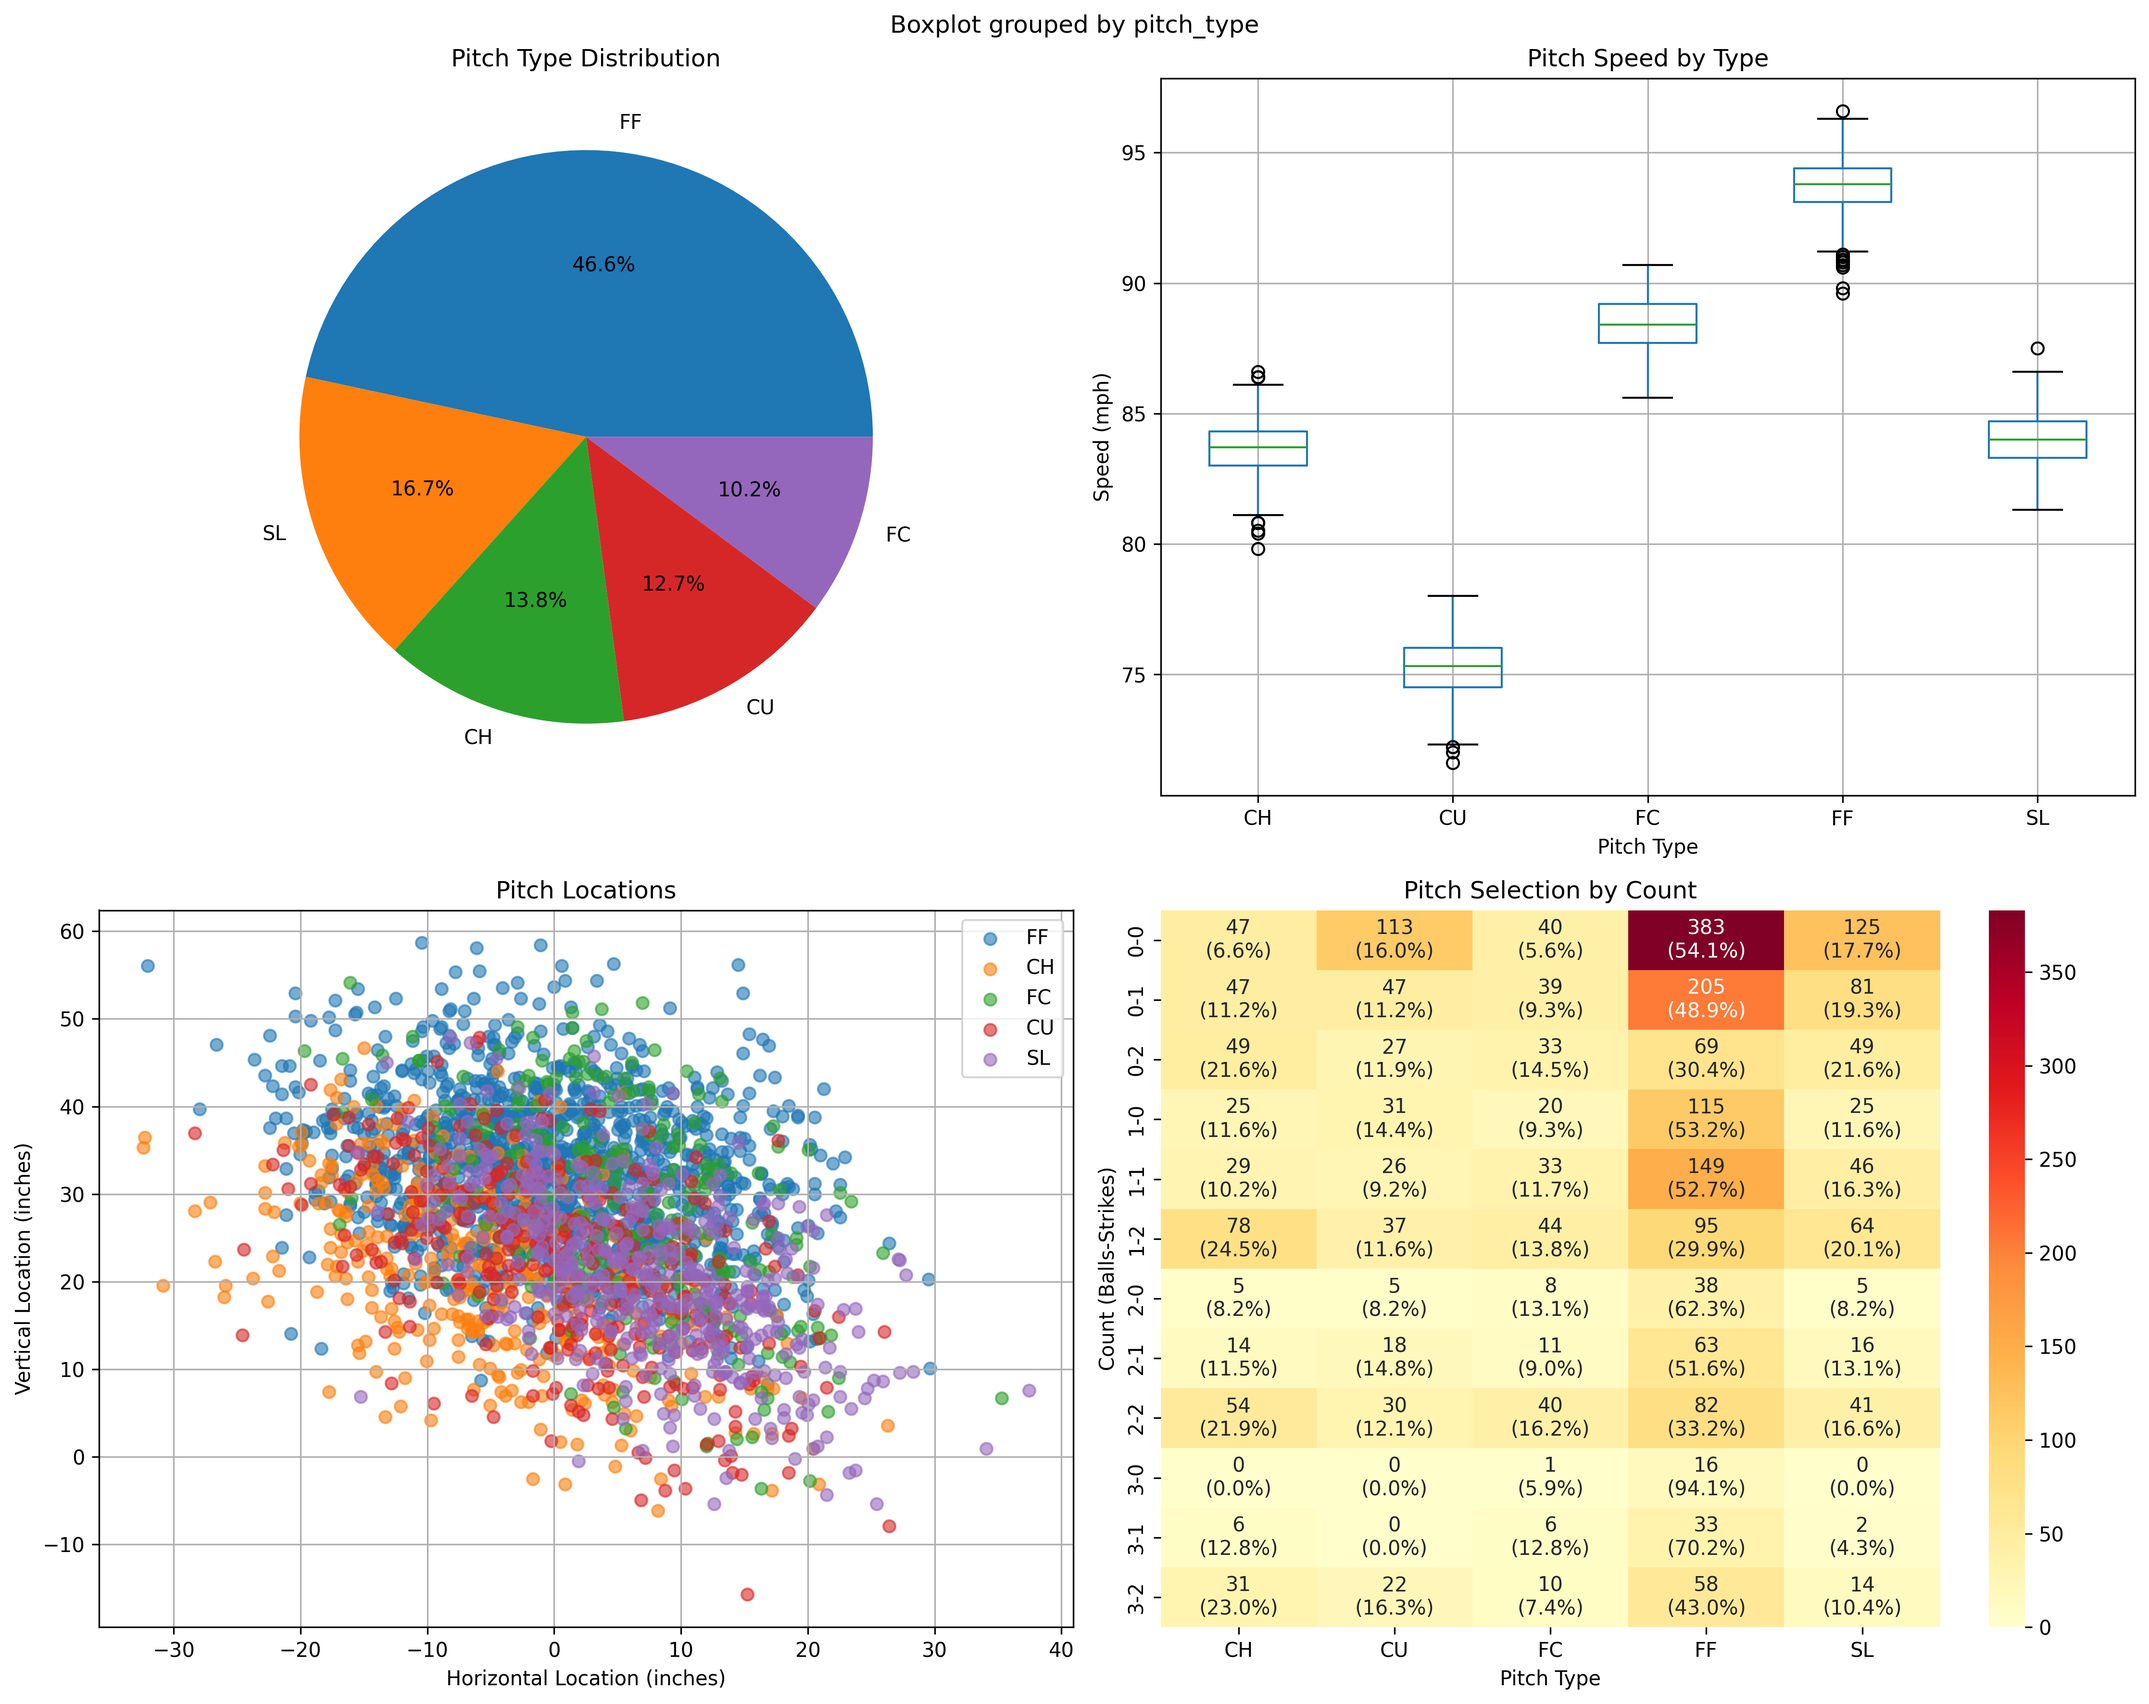
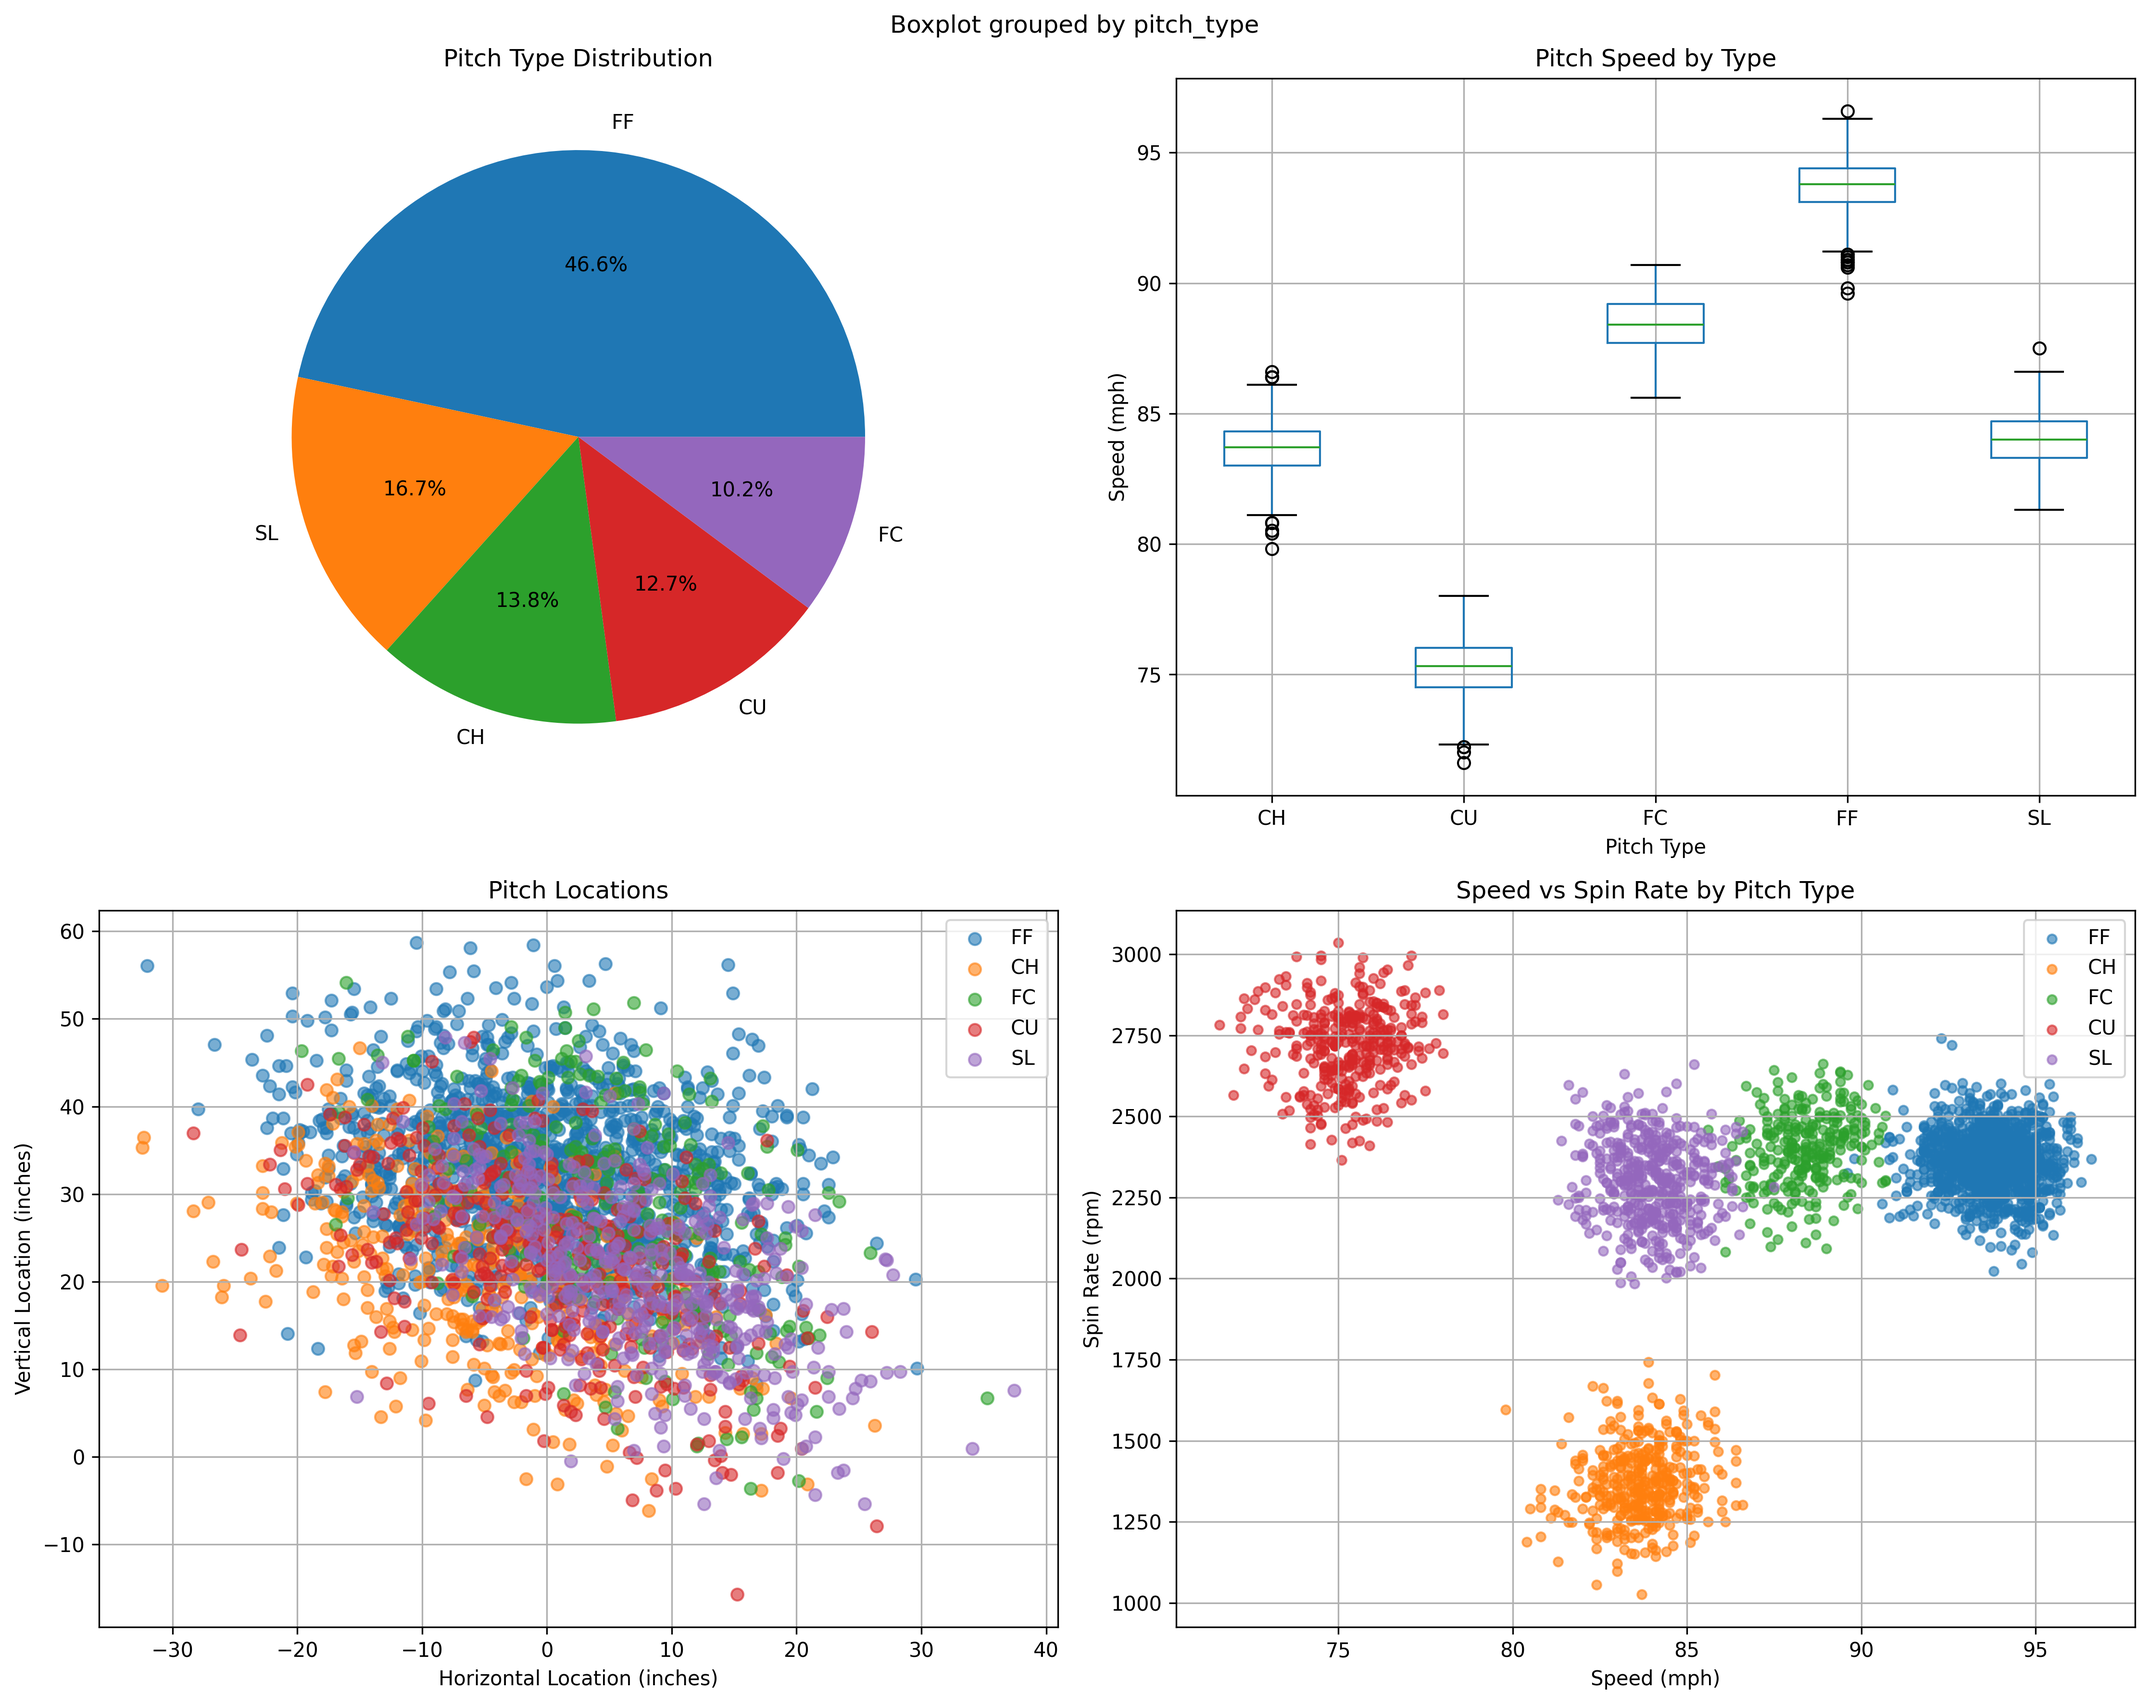
made pitch prediction more accurate

diff --git a/pitch_selection.py b/pitch_selection.py
@@ -57,7 +57,7 @@ class PitchSelectionAnalyzer:
         return count_pitch_percentages
     
     def analyze_pitch_characteristics(self, pitcher_name):
-        """Analyze speed and spin rate distributions for each pitch type"""
+        """Analyze speed and spin rate distributions for each pitch type with correlations"""
         if pitcher_name not in self.pitcher_data:
             return None
             
@@ -72,11 +72,27 @@ class PitchSelectionAnalyzer:
             pitch_data = data[data['pitch_type'] == pitch_type]
             
             if len(pitch_data) > 10:  # Only analyze if we have enough data
+                # Calculate basic statistics
+                speed_mean = pitch_data['release_speed'].mean()
+                speed_std = pitch_data['release_speed'].std()
+                spin_mean = pitch_data['release_spin_rate'].mean()
+                spin_std = pitch_data['release_spin_rate'].std()
+                
+                # Calculate correlation between speed and spin
+                correlation = pitch_data['release_speed'].corr(pitch_data['release_spin_rate'])
+                
+                # Calculate conditional parameters for spin given speed
+                # spin_conditional_mean = spin_mean + correlation * (spin_std/speed_std) * (speed - speed_mean)
+                # spin_conditional_std = spin_std * sqrt(1 - correlation^2)
+                spin_conditional_std = spin_std * np.sqrt(1 - correlation**2) if not np.isnan(correlation) else spin_std
+                
                 characteristics = {
-                    'speed_mean': pitch_data['release_speed'].mean(),
-                    'speed_std': pitch_data['release_speed'].std(),
-                    'spin_mean': pitch_data['release_spin_rate'].mean(),
-                    'spin_std': pitch_data['release_spin_rate'].std(),
+                    'speed_mean': speed_mean,
+                    'speed_std': speed_std,
+                    'spin_mean': spin_mean,
+                    'spin_std': spin_std,
+                    'speed_spin_correlation': correlation,
+                    'spin_conditional_std': spin_conditional_std,
                     'pfx_x_mean': pitch_data['pfx_x'].mean(),
                     'pfx_x_std': pitch_data['pfx_x'].std(),
                     'pfx_z_mean': pitch_data['pfx_z'].mean(),
@@ -87,8 +103,9 @@ class PitchSelectionAnalyzer:
         
         print(f"\n=== Pitch Characteristics for {pitcher_name} ===")
         for pitch_type, stats in pitch_characteristics.items():
+            correlation_str = f"r={stats['speed_spin_correlation']:.3f}" if not np.isnan(stats['speed_spin_correlation']) else "r=N/A"
             print(f"{pitch_type}: Speed {stats['speed_mean']:.1f}±{stats['speed_std']:.1f} mph, "
-                  f"Spin {stats['spin_mean']:.0f}±{stats['spin_std']:.0f} rpm (n={stats['count']}), \nX-Movement: {stats['pfx_x_mean']:.2f}±{stats['pfx_x_std']:.2f} in, "
+                  f"Spin {stats['spin_mean']:.0f}±{stats['spin_std']:.0f} rpm ({correlation_str}) (n={stats['count']}), \nX-Movement: {stats['pfx_x_mean']:.2f}±{stats['pfx_x_std']:.2f} in, "
                   f"Z-Movement: {stats['pfx_z_mean']:.2f}±{stats['pfx_z_std']:.2f} in")
         
         return pitch_characteristics
@@ -130,6 +147,64 @@ class PitchSelectionAnalyzer:
         
         return location_patterns
     
+    def validate_speed_spin_correlation(self, pitcher_name, model, num_samples=1000):
+        """Validate the conditional probability approach by comparing generated vs actual distributions"""
+        if pitcher_name not in self.pitcher_data or model is None:
+            return None
+            
+        data = self.pitcher_data[pitcher_name]
+        validation_results = {}
+        
+        for pitch_type in model['pitch_characteristics'].keys():
+            pitch_data = data[data['pitch_type'] == pitch_type]
+            if len(pitch_data) < 10:
+                continue
+                
+            # Generate samples using the conditional probability model
+            generated_speeds = []
+            generated_spins = []
+            
+            char = model['pitch_characteristics'][pitch_type]
+            
+            for _ in range(num_samples):
+                # Generate speed first
+                speed = np.random.normal(char['speed_mean'], char['speed_std'])
+                
+                # Generate spin using conditional probability
+                if not np.isnan(char['speed_spin_correlation']) and char['speed_spin_correlation'] != 0:
+                    spin_conditional_mean = (char['spin_mean'] + 
+                                           char['speed_spin_correlation'] * 
+                                           (char['spin_std'] / char['speed_std']) * 
+                                           (speed - char['speed_mean']))
+                    spin = np.random.normal(spin_conditional_mean, char['spin_conditional_std'])
+                else:
+                    spin = np.random.normal(char['spin_mean'], char['spin_std'])
+                
+                generated_speeds.append(speed)
+                generated_spins.append(spin)
+            
+            # Calculate correlations
+            actual_correlation = pitch_data['release_speed'].corr(pitch_data['release_spin_rate'])
+            generated_correlation = np.corrcoef(generated_speeds, generated_spins)[0, 1]
+            
+            validation_results[pitch_type] = {
+                'actual_correlation': actual_correlation,
+                'generated_correlation': generated_correlation,
+                'correlation_error': abs(actual_correlation - generated_correlation),
+                'actual_speed_mean': pitch_data['release_speed'].mean(),
+                'generated_speed_mean': np.mean(generated_speeds),
+                'actual_spin_mean': pitch_data['release_spin_rate'].mean(),
+                'generated_spin_mean': np.mean(generated_spins)
+            }
+        
+        print(f"\n=== Speed-Spin Correlation Validation for {pitcher_name} ===")
+        for pitch_type, results in validation_results.items():
+            print(f"{pitch_type}: Actual r={results['actual_correlation']:.3f}, "
+                  f"Generated r={results['generated_correlation']:.3f}, "
+                  f"Error={results['correlation_error']:.3f}")
+        
+        return validation_results
+    
     def create_pitch_selection_model(self, pitcher_name):
         """Create a comprehensive pitch selection model"""
         count_analysis = self.analyze_pitch_types_by_count(pitcher_name)
@@ -169,9 +244,22 @@ class PitchSelectionAnalyzer:
                     char = model['pitch_characteristics'][pitch_type]
                     loc = model['location_patterns'][pitch_type]
                     
-                    # Generate speed and spin using normal distribution
+                    # Generate speed first using normal distribution
                     speed = np.random.normal(char['speed_mean'], char['speed_std'])
-                    spin = np.random.normal(char['spin_mean'], char['spin_std'])
+                    
+                    # Generate spin rate using conditional probability given the speed
+                    if not np.isnan(char['speed_spin_correlation']) and char['speed_spin_correlation'] != 0:
+                        # Calculate conditional mean for spin given speed
+                        spin_conditional_mean = (char['spin_mean'] + 
+                                               char['speed_spin_correlation'] * 
+                                               (char['spin_std'] / char['speed_std']) * 
+                                               (speed - char['speed_mean']))
+                        
+                        # Use conditional standard deviation
+                        spin = np.random.normal(spin_conditional_mean, char['spin_conditional_std'])
+                    else:
+                        # Fallback to independent selection if no correlation or insufficient data
+                        spin = np.random.normal(char['spin_mean'], char['spin_std'])
                     
                     # Generate location using normal distribution
                     x_loc = np.random.normal(loc['x_mean'], loc['x_std'])
@@ -229,14 +317,18 @@ class PitchSelectionAnalyzer:
         axes[1, 0].grid(True)
         
         
-        # 4. Count-based pitch selection heatmap
-        count_pitch_data = data.groupby(['balls', 'strikes', 'pitch_type']).size().unstack(fill_value=0)
-        count_pitch_percent = count_pitch_data.div(count_pitch_data.sum(axis=1), axis=0) * 100
-        annot = count_pitch_data.astype(str) + "\n(" + count_pitch_percent.round(1).astype(str) + "%)"
-        sns.heatmap(count_pitch_data, annot=annot, fmt='', cmap='YlOrRd', ax=axes[1, 1])
-        axes[1, 1].set_title('Pitch Selection by Count')
-        axes[1, 1].set_xlabel('Pitch Type')
-        axes[1, 1].set_ylabel('Count (Balls-Strikes)')
+        # 4. Speed vs Spin Rate scatter plot by pitch type
+        for pitch_type in data['pitch_type'].unique():
+            pitch_data = data[data['pitch_type'] == pitch_type]
+            if len(pitch_data) > 0:
+                axes[1, 1].scatter(pitch_data['release_speed'], pitch_data['release_spin_rate'], 
+                                  label=pitch_type, alpha=0.6, s=20)
+        
+        axes[1, 1].set_xlabel('Speed (mph)')
+        axes[1, 1].set_ylabel('Spin Rate (rpm)')
+        axes[1, 1].set_title('Speed vs Spin Rate by Pitch Type')
+        axes[1, 1].legend()
+        axes[1, 1].grid(True)
         
         plt.tight_layout()
         plt.savefig(f'{pitcher_name.replace(" ", "_")}_pitch_analysis.png', dpi=300, bbox_inches='tight')
@@ -269,6 +361,9 @@ def main():
             model = analyzer.create_pitch_selection_model(pitcher)
             
             if model:
+                # Validate the speed-spin correlation approach
+                validation_results = analyzer.validate_speed_spin_correlation(pitcher, model)
+                
                 # Generate some example predictions
                 print(f"\n=== Sample Predictions for {pitcher} ===")
                 test_counts = [(0, 0), (0, 1), (1, 0), (1, 1), (2, 0), (2, 1), (3, 0), (3, 1), (3, 2)]
